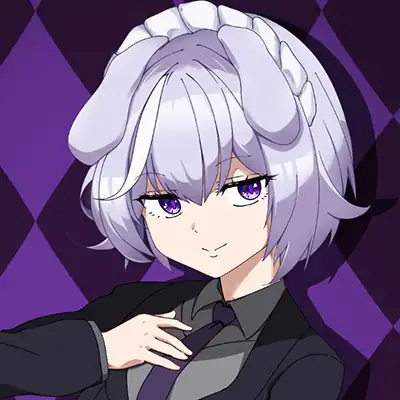
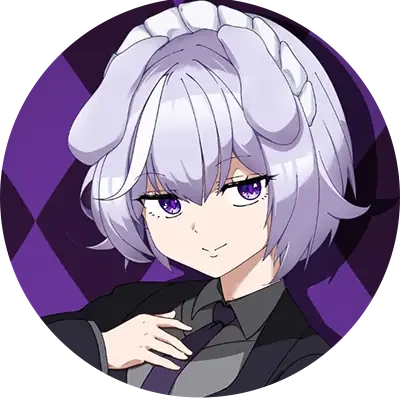
生日祝福

Changed region(s): [[0.0, 0.51, 1.0, 1.0], [0.6, 0.0, 1.0, 0.48], [0.0, 0.0, 0.42, 0.45]]

diff --git a/index.html b/index.html
@@ -82,7 +82,7 @@
       <!-- header start -->
     <header>
         <div class="fy-notice">
-            <a>如果真爱有形状，那一定是符瑶的模样。</a>
+            <a>生日快乐，烤栗子先生！</a>
             <button class="close-btn" onclick="closeNotice()">×</button>
         </div>
         <script>
@@ -108,7 +108,7 @@
         <div class="container content">
             <div class="row align-items-center">
                 <div class="col-lg-5 px-5 pl-lg-0 pb-5 pb-lg-0">
-                    <img class="img-fluid w-100 rounded-circle shadow-sm" src="img/fuyaoicon.webp" alt="">
+                    <img class="img-fluid w-100 shadow-sm" src="img/fuyaoicon.webp" alt="">
                 </div>
                 <div class="col-lg-7 text-center text-lg-left">
                     <div class="white-box">

diff --git a/gender.html b/gender.html
@@ -89,7 +89,7 @@
        <!-- header start -->
     <header>
         <div class="fy-notice">
-            <a>如果真爱有形状，那一定是符瑶的模样。</a>
+            <a>生日快乐，烤栗子先生！</a>
             <button class="close-btn" onclick="closeNotice()">×</button>
         </div>
         <script>

diff --git a/metro.html b/metro.html
@@ -90,7 +90,7 @@
     <!-- header start -->
     <header>
         <div class="fy-notice">
-            <a>如果真爱有形状，那一定是符瑶的模样。</a>
+            <a>生日快乐，烤栗子先生！</a>
             <button class="close-btn" onclick="closeNotice()">×</button>
         </div>
         <script>

diff --git a/zh-tw/index.html b/zh-tw/index.html
@@ -82,7 +82,7 @@
     <!-- header start -->
     <header>
         <div class="fy-notice">
-            <a>如果真愛有形狀，那一定是符瑤的模樣。</a>
+            <a>生日快樂，烤栗子先生！</a>
             <button class="close-btn" onclick="closeNotice()">×</button>
         </div>
         <script>

diff --git a/zh-tw/gender.html b/zh-tw/gender.html
@@ -80,7 +80,7 @@
 <body>
     <header>
         <div class="fy-notice">
-            <a>如果真愛有形狀，那一定是符瑤的模樣。</a>
+            <a>生日快樂，烤栗子先生！</a>
             <button class="close-btn" onclick="closeNotice()">×</button>
         </div>
         <script>

diff --git a/zh-tw/metro.html b/zh-tw/metro.html
@@ -80,7 +80,7 @@
 <body>
     <header>
         <div class="fy-notice">
-            <a>如果真愛有形狀，那一定是符瑤的模樣。</a>
+            <a>生日快樂，烤栗子先生！</a>
             <button class="close-btn" onclick="closeNotice()">×</button>
         </div>
         <script>
